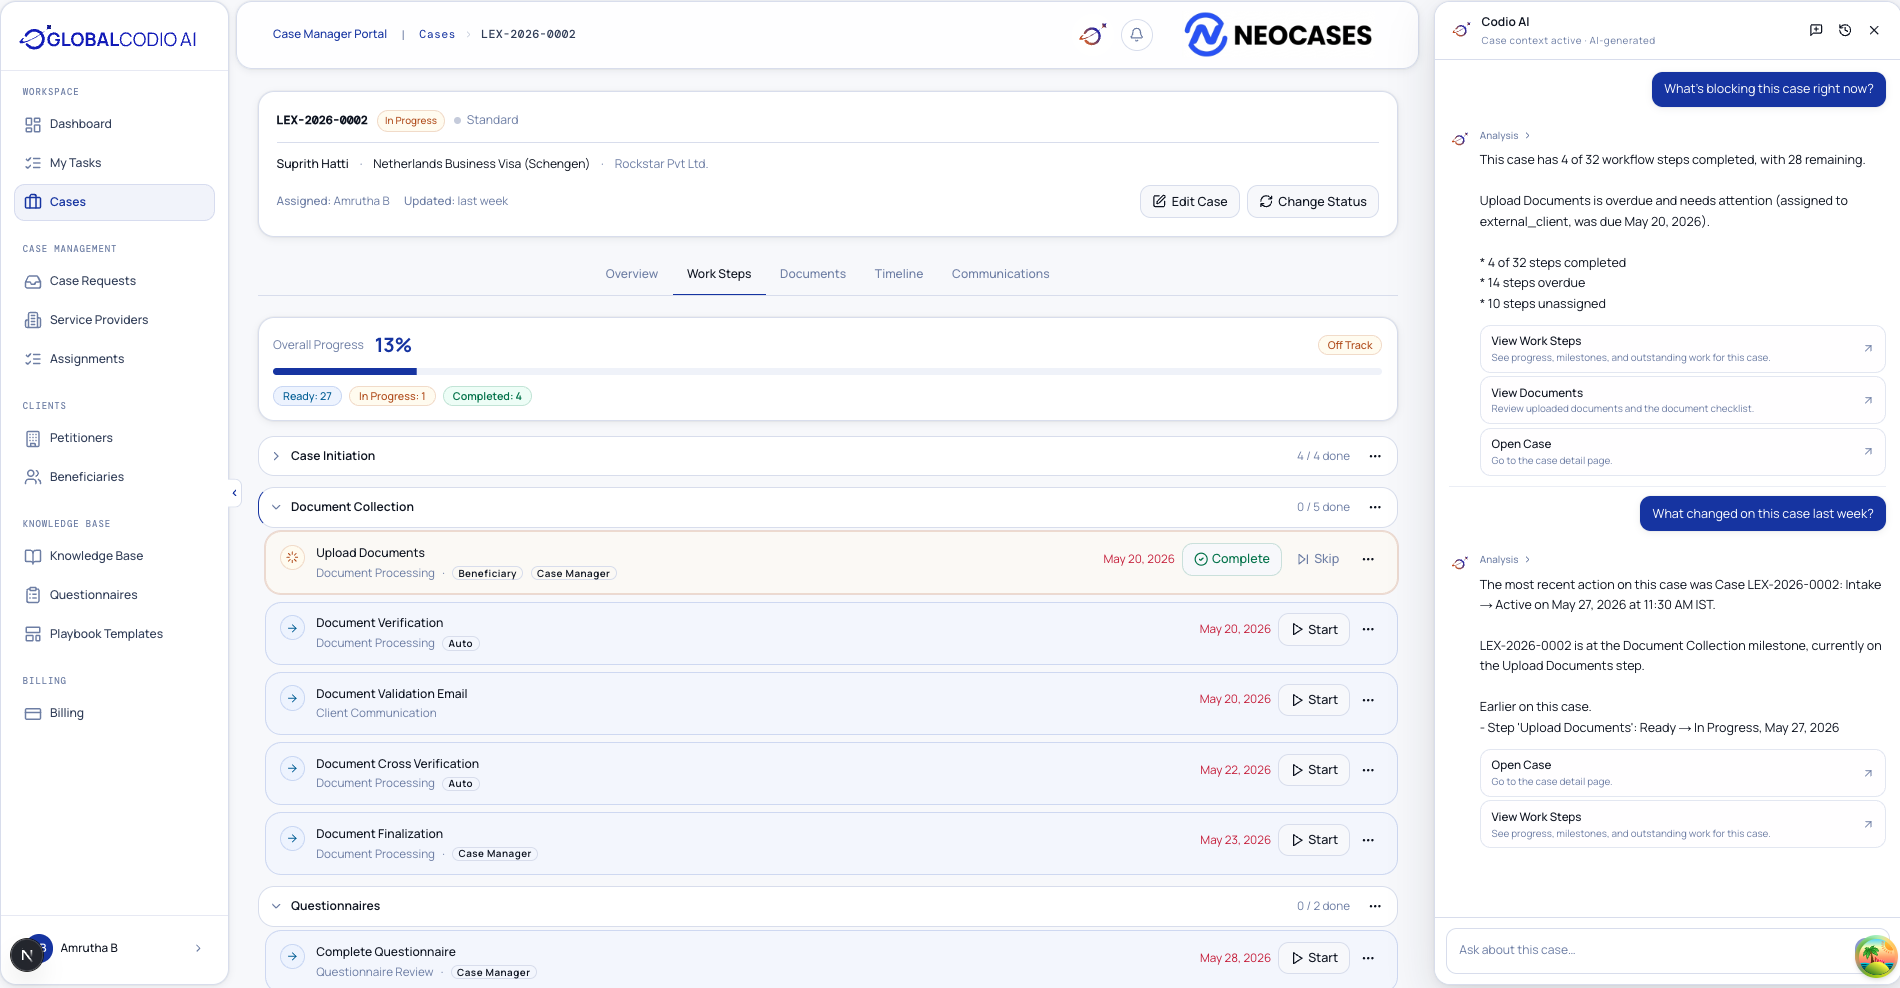
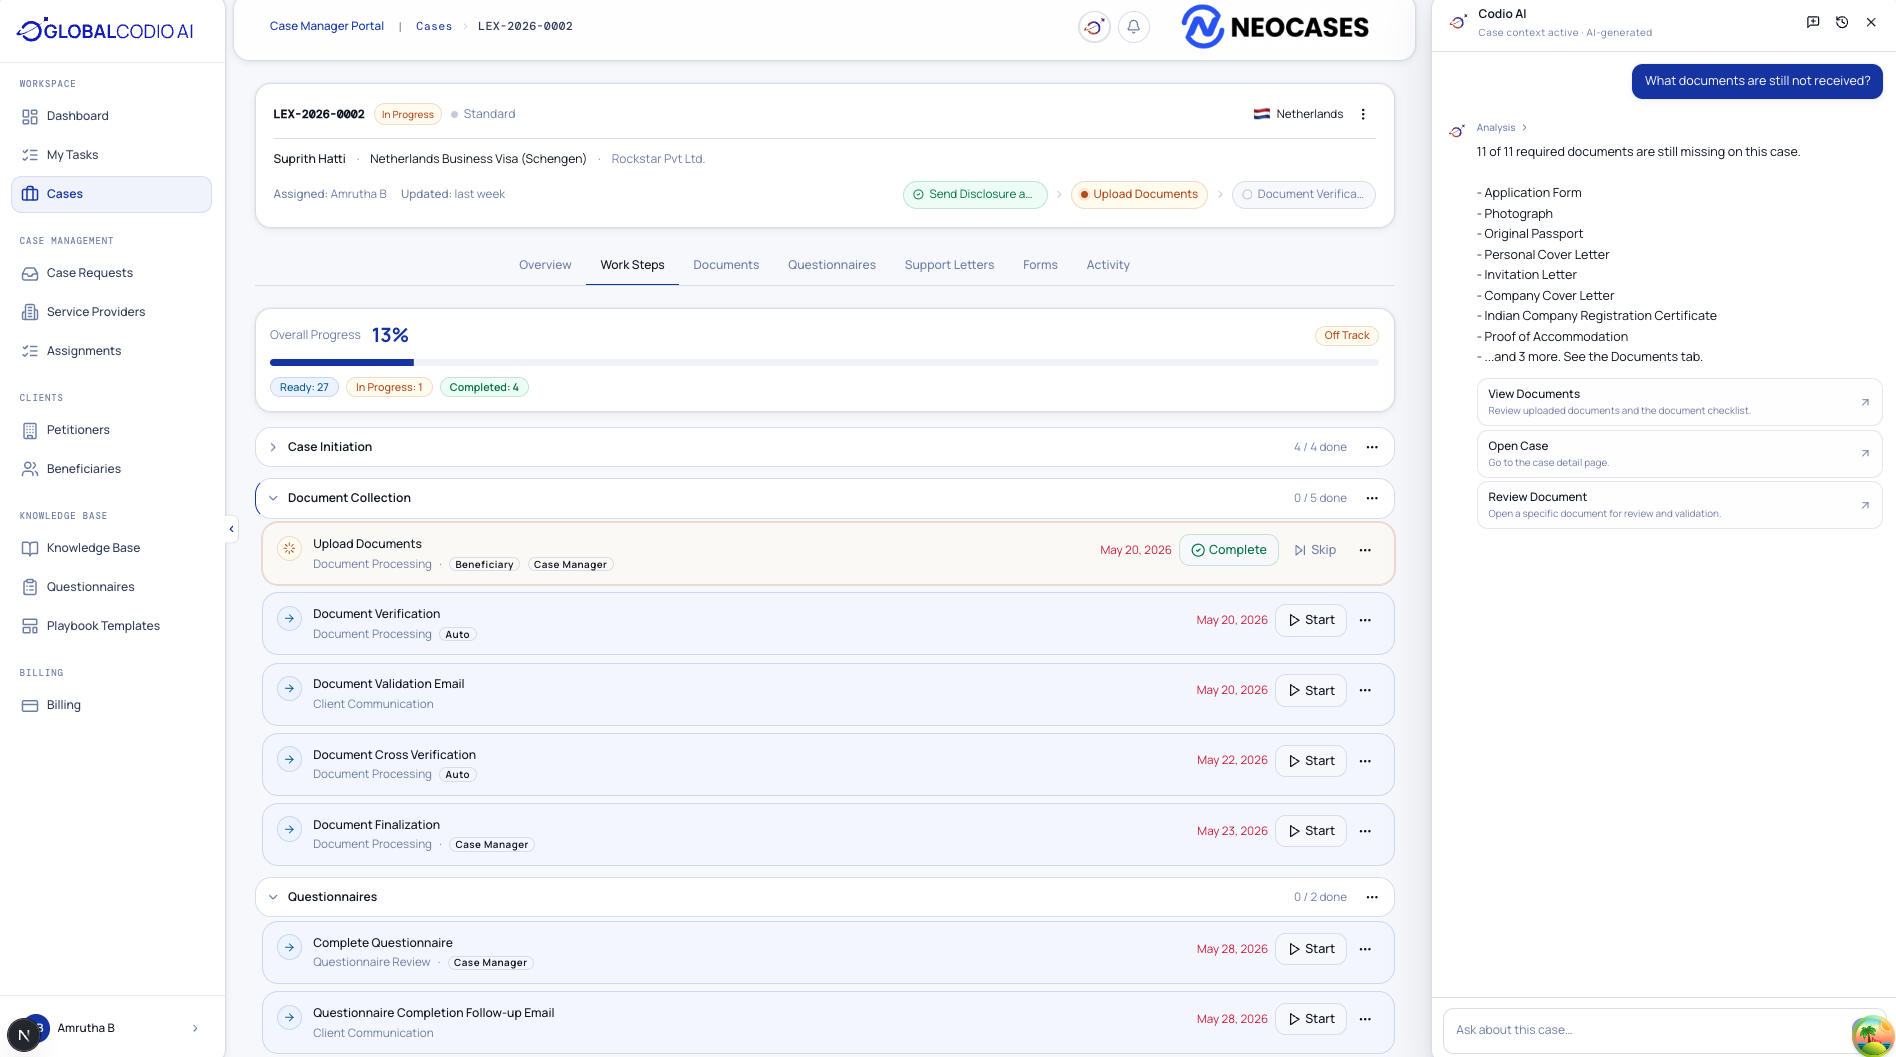
feat: enhance testimonials with SmartLink for additional information

diff --git a/src/components/ContentSections.jsx b/src/components/ContentSections.jsx
@@ -6,7 +6,7 @@ import { gsap } from 'gsap';
 import { FileText, RefreshCw, ClipboardList, PenLine, CalendarClock, Megaphone } from 'lucide-react';
 import { GlobeIcon, MessageCircleIcon, TrendingUpIcon } from '@animateicons/react/lucide';
 import { Logo } from '../../components/layout/Nav';
-import { SectionEyebrow } from '../../components/ui/PageKit';
+import { SectionEyebrow, SmartLink } from '../../components/ui/PageKit';
 import { FOOTER_COLUMNS, SUPPORT_EMAIL, SUPPORT_MAILTO, SITE_URL, AUDIT_URL } from '../../lib/navigation';
 import { ICON_PALETTE } from '../../lib/tokens';
 
@@ -228,6 +228,7 @@ export const Testimonial = () => (
         {[
           {
             title: 'Immigration Law Firms',
+            href: '/for-law-firms',
             quote: 'GlobalCodio handles everything - AI agents for case prep, deadlines, client comms, and renewals, plus audit, consulting, configuration, and managed operations - so your attorneys focus on what matters.',
             body: 'Solo, mid-size, and large law firms practicing immigration law. Pain points: manual case preparation, scaling case volume, growing revenue from existing clients, and managing technology.',
             services: [
@@ -239,6 +240,7 @@ export const Testimonial = () => (
           },
           {
             title: 'Corporate Immigration Departments',
+            href: '/for-corporate-teams',
             quote: 'GlobalCodio handles everything - AI agents for visa tracking, compliance monitoring, and vendor coordination, plus audit, consulting, configuration, and managed operations - so your mobility team focuses on strategy.',
             body: 'In-house mobility, HR, and legal operations teams at mid-to-large employers managing employee visa cases. Pain points: scaling case volume, compliance, vendor management, and cost predictability.',
             services: [
@@ -263,7 +265,16 @@ export const Testimonial = () => (
                 </div>
               ))}
             </div>
-            <p style={{ fontSize: 'var(--text-body-sm)', color: 'var(--ink-3)', lineHeight: 1.6 }}>{a.body}</p>
+            <p style={{ fontSize: 'var(--text-body-sm)', color: 'var(--ink-3)', lineHeight: 1.6 }}>
+              {a.body}
+              {' '}
+              <SmartLink href={a.href} className="feature-card-link" style={{ fontWeight: 600, display: 'inline-flex', verticalAlign: 'middle' }}>
+                Learn more
+                <svg viewBox="0 0 16 16" fill="none" stroke="currentColor" strokeWidth="2" style={{ width: 12, height: 12 }} aria-hidden="true">
+                  <path d="M3 8h10M9 4l4 4-4 4" />
+                </svg>
+              </SmartLink>
+            </p>
           </article>
         ))}
       </div>
